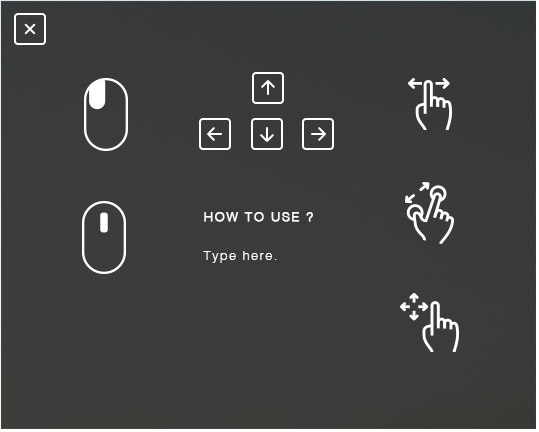
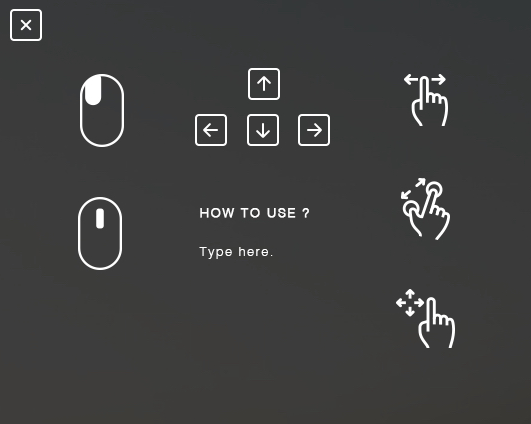
add how_to_use img

diff --git a/src/lib/jquery.bpopup.min.js b/src/lib/jquery.bpopup.min.js
@@ -1,0 +1,7 @@
+/*================================================================================
+ * @name: bPopup - if you can't get it up, use bPopup
+ * @author: (c)Bjoern Klinggaard (twitter@bklinggaard)
+ * @demo: http://dinbror.dk/bpopup
+ * @version: 0.11.0.min
+ ================================================================================*/
+ (function(c){c.fn.bPopup=function(A,E){function L(){a.contentContainer=c(a.contentContainer||b);switch(a.content){case "iframe":var d=c('<iframe class="b-iframe" '+a.iframeAttr+"></iframe>");d.appendTo(a.contentContainer);t=b.outerHeight(!0);u=b.outerWidth(!0);B();d.attr("src",a.loadUrl);l(a.loadCallback);break;case "image":B();c("<img />").load(function(){l(a.loadCallback);F(c(this))}).attr("src",a.loadUrl).hide().appendTo(a.contentContainer);break;default:B(),c('<div class="b-ajax-wrapper"></div>').load(a.loadUrl,a.loadData,function(d,b,e){l(a.loadCallback,b);F(c(this))}).hide().appendTo(a.contentContainer)}}function B(){a.modal&&c('<div class="b-modal '+e+'"></div>').css({backgroundColor:a.modalColor,position:"fixed",top:0,right:0,bottom:0,left:0,opacity:0,zIndex:a.zIndex+v}).appendTo(a.appendTo).fadeTo(a.speed,a.opacity);C();b.data("bPopup",a).data("id",e).css({left:"slideIn"==a.transition||"slideBack"==a.transition?"slideBack"==a.transition?f.scrollLeft()+w:-1*(x+u):m(!(!a.follow[0]&&n||g)),position:a.positionStyle||"absolute",top:"slideDown"==a.transition||"slideUp"==a.transition?"slideUp"==a.transition?f.scrollTop()+y:z+-1*t:p(!(!a.follow[1]&&q||g)),"z-index":a.zIndex+v+1}).each(function(){a.appending&&c(this).appendTo(a.appendTo)});G(!0)}function r(){a.modal&&c(".b-modal."+b.data("id")).fadeTo(a.speed,0,function(){c(this).remove()});a.scrollBar||c("html").css("overflow","auto");c(".b-modal."+e).unbind("click");f.unbind("keydown."+e);k.unbind("."+e).data("bPopup",0<k.data("bPopup")-1?k.data("bPopup")-1:null);b.undelegate(".bClose, ."+a.closeClass,"click."+e,r).data("bPopup",null);clearTimeout(H);G();return!1}function I(d){y=k.height();w=k.width();h=D();if(h.x||h.y)clearTimeout(J),J=setTimeout(function(){C();d=d||a.followSpeed;var e={};h.x&&(e.left=a.follow[0]?m(!0):"auto");h.y&&(e.top=a.follow[1]?p(!0):"auto");b.dequeue().each(function(){g?c(this).css({left:x,top:z}):c(this).animate(e,d,a.followEasing)})},50)}function F(d){var c=d.width(),e=d.height(),f={};a.contentContainer.css({height:e,width:c});e>=b.height()&&(f.height=b.height());c>=b.width()&&(f.width=b.width());t=b.outerHeight(!0);u=b.outerWidth(!0);C();a.contentContainer.css({height:"auto",width:"auto"});f.left=m(!(!a.follow[0]&&n||g));f.top=p(!(!a.follow[1]&&q||g));b.animate(f,250,function(){d.show();h=D()})}function M(){k.data("bPopup",v);b.delegate(".bClose, ."+a.closeClass,"click."+e,r);a.modalClose&&c(".b-modal."+e).css("cursor","pointer").bind("click",r);N||!a.follow[0]&&!a.follow[1]||k.bind("scroll."+e,function(){if(h.x||h.y){var d={};h.x&&(d.left=a.follow[0]?m(!g):"auto");h.y&&(d.top=a.follow[1]?p(!g):"auto");b.dequeue().animate(d,a.followSpeed,a.followEasing)}}).bind("resize."+e,function(){I()});a.escClose&&f.bind("keydown."+e,function(a){27==a.which&&r()})}function G(d){function c(e){b.css({display:"block",opacity:1}).animate(e,a.speed,a.easing,function(){K(d)})}switch(d?a.transition:a.transitionClose||a.transition){case "slideIn":c({left:d?m(!(!a.follow[0]&&n||g)):f.scrollLeft()-(u||b.outerWidth(!0))-200});break;case "slideBack":c({left:d?m(!(!a.follow[0]&&n||g)):f.scrollLeft()+w+200});break;case "slideDown":c({top:d?p(!(!a.follow[1]&&q||g)):f.scrollTop()-(t||b.outerHeight(!0))-200});break;case "slideUp":c({top:d?p(!(!a.follow[1]&&q||g)):f.scrollTop()+y+200});break;default:b.stop().fadeTo(a.speed,d?1:0,function(){K(d)})}}function K(d){d?(M(),l(E),a.autoClose&&(H=setTimeout(r,a.autoClose))):(b.hide(),l(a.onClose),a.loadUrl&&(a.contentContainer.empty(),b.css({height:"auto",width:"auto"})))}function m(a){return a?x+f.scrollLeft():x}function p(a){return a?z+f.scrollTop():z}function l(a,e){c.isFunction(a)&&a.call(b,e)}function C(){z=q?a.position[1]:Math.max(0,(y-b.outerHeight(!0))/2-a.amsl);x=n?a.position[0]:(w-b.outerWidth(!0))/2;h=D()}function D(){return{x:w>b.outerWidth(!0),y:y>b.outerHeight(!0)}}c.isFunction(A)&&(E=A,A=null);var a=c.extend({},c.fn.bPopup.defaults,A);a.scrollBar||c("html").css("overflow","hidden");var b=this,f=c(document),k=c(window),y=k.height(),w=k.width(),N=/OS 6(_\d)+/i.test(navigator.userAgent),v=0,e,h,q,n,g,z,x,t,u,J,H;b.close=function(){r()};b.reposition=function(a){I(a)};return b.each(function(){c(this).data("bPopup")||(l(a.onOpen),v=(k.data("bPopup")||0)+1,e="__b-popup"+v+"__",q="auto"!==a.position[1],n="auto"!==a.position[0],g="fixed"===a.positionStyle,t=b.outerHeight(!0),u=b.outerWidth(!0),a.loadUrl?L():B())})};c.fn.bPopup.defaults={amsl:50,appending:!0,appendTo:"body",autoClose:!1,closeClass:"b-close",content:"ajax",contentContainer:!1,easing:"swing",escClose:!0,follow:[!0,!0],followEasing:"swing",followSpeed:500,iframeAttr:'scrolling="no" frameborder="0"',loadCallback:!1,loadData:!1,loadUrl:!1,modal:!0,modalClose:!0,modalColor:"#000",onClose:!1,onOpen:!1,opacity:.7,position:["auto","auto"],positionStyle:"absolute",scrollBar:!0,speed:250,transition:"fadeIn",transitionClose:!1,zIndex:9997}})(jQuery);

diff --git a/src/listener.js b/src/listener.js
@@ -449,43 +449,6 @@ TOPPANO.onDocumentDrop = function(event) {
     document.body.style.opacity = 1;
 };
 
-TOPPANO.onDocumentKeyUp = function(key) {
-    var canvas = document.getElementById('myCanvas');
-
-    if (canvas.style.opacity > 0) {
-        // press 's': snapshot function
-        if (key.which === 83) {
-            fadeOut(canvas, 600);
-        }
-    }
-    else{    
-        // press 's': snapshot function
-        if (key.which === 83) {
-            fadeIn(canvas, 600);
-            TOPPANO.getSnapshot();
-        } 
-        else{
-            // press 'q': snapshot function (for testing ajax func now.)
-            if (key.which === 81) {
-                var xhr = new XMLHttpRequest();
-                xhr.open('GET', 'get?id=456', false);
-                xhr.setRequestHeader("Content-type", "application/x-www-form-urlencoded");
-                xhr.send(null);
-                if (xhr.status === 200) {
-                    // console.log(xhr.responseText);
-                    var userInfo = JSON.parse(xhr.responseText);
-                    console.log(userInfo);
-                }
-                else
-                    console.log('XMLHttpRequest failed. Status: ' + xhr.status);
-            } else
-
-                // press 'p': snapshot save image
-                if (key.which === 80) {
-                    TOPPANO.change2Scene('00000002');
-                }
-        }}
-};
 
 TOPPANO.onWindowResize = function() {
     if (TOPPANO.gv.isFullScreen) {

diff --git a/index.html b/index.html
@@ -24,6 +24,7 @@
         <script src="./src/lib/swiper.jquery.min.js"></script>
         <script src="./src/lib/jquery.ui.draggable-1.11.4.min.js"></script>
         <script src="./src/lib/jquery.ui.touch-punch.min.js"></script>
+        <script src="./src/lib/jquery.bpopup.min.js"></script>
         <script src="./application.js"></script>
         <!--
         <script src="https://ajax.googleapis.com/ajax/libs/angularjs/1.3.15/angular.min.js"></script>
@@ -33,6 +34,9 @@
         <div id="logo" class="logo-bar">
             <img id="logo_img" src="./images/logo.png"></img>
             <img id='q_mark_img' src="./images/question_mark.png"></img>
+        </div>
+        <div id='how_to_use'>
+            <img src='./images/how_to_use.png' style='opacity:0.7;'></img>
         </div>
         <div id="menu" class="sidebar sidebar-collapsed">
             <div class="sidebar-title">MENU</div>

diff --git a/src/functions.js b/src/functions.js
@@ -182,9 +182,6 @@ TOPPANO.addListener = function() {
     document.addEventListener('drop', function(event) {
         TOPPANO.onDocumentDrop(event);
     }, false);
-    document.addEventListener('keyup', function(key) {
-        TOPPANO.onDocumentKeyUp(key);
-    }, false);
     window.addEventListener('resize', TOPPANO.onWindowResize, false);
     
     if (/Android|webOS|iPhone|iPad|iPod|BlackBerry|IEMobile|Opera Mini/i.test(navigator.userAgent)) {

diff --git a/css/style.css b/css/style.css
@@ -290,7 +290,12 @@ body {
 }
 
 .logo-bar #logo_img{
-    position: fixed;
+    -webkit-transform: translateX(-50%);
+    -moz-transform: translateX(-50%);
+    -o-transform: translateX(-50%);
+    -ms-transform: translateX(-50%);
+    transform: translateX(-50%);
+    position: absolute;
     top: 10px;
     left: 50%;
 }
@@ -301,4 +306,8 @@ body {
     left: 90%;
     width:35px; 
     height:35px;
+}
+
+#how_to_use{
+    display: none;
 }
